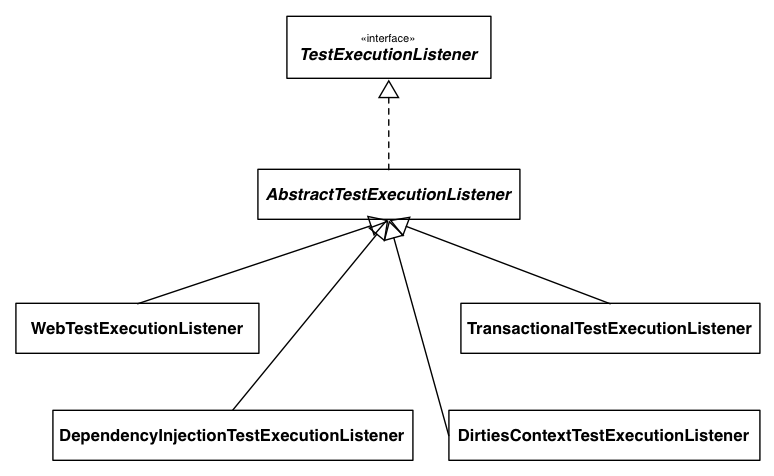
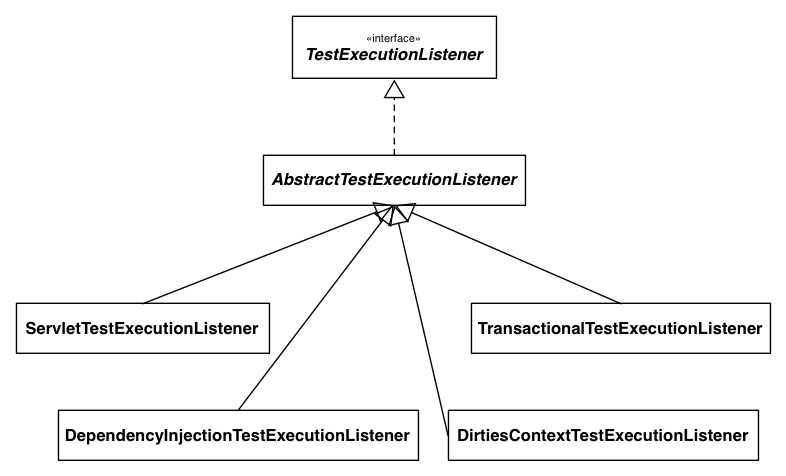
WebTEL -> ServletTEL

diff --git a/tcf-web-support/slides.md b/tcf-web-support/slides.md
@@ -81,7 +81,7 @@
 ![SmartContextLoader-Type-Hierarchy.png](SmartContextLoader-Type-Hierarchy.png)
 
 !SLIDE incremental smaller
-# `WebTestExecutionListener`
+# `ServletTestExecutionListener`
 * Sets up default thread-local state via `RequestContextHolder` before each test method
 * Creates:
   * `MockHttpServletRequest`
